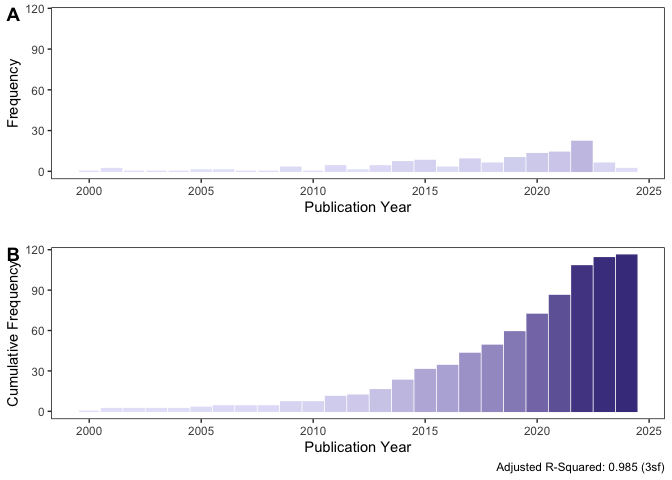
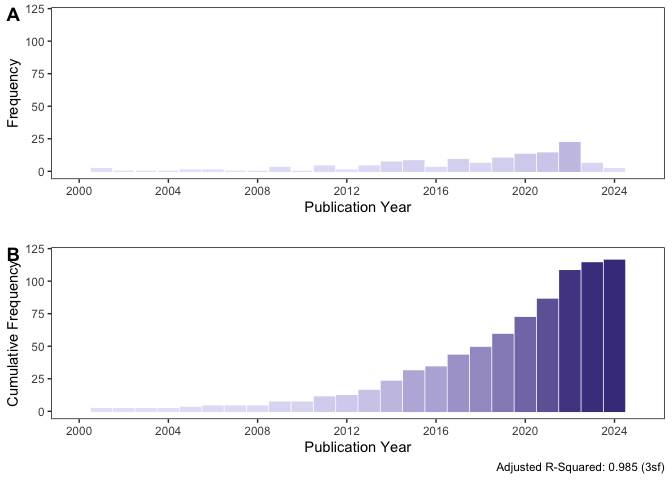
continued making progress on spatial frequency visualizations for subnational plots

diff --git a/scripts/cleaning-script.md b/scripts/cleaning-script.md
@@ -215,7 +215,8 @@ temporal_frequencies_plot <- temporal_frequencies %>%
   scale_color_gradient(name="Count",low="lavender",high="slateblue4",limits=c(1,116),na.value="lavender",breaks=c(1,29,58,87,116)) +
   xlab("Publication Year") + 
   ylab("Frequency") + 
-  ylim(0,115) +
+  scale_y_continuous(limits=c(0,120)) +
+  scale_x_continuous(breaks=c(2000,2004,2008,2012,2016,2020,2024),limits=c(2000,2025)) +
   labs(caption="   ") + 
   theme(legend.position="none",legend.justification="center",legend.box.spacing=unit(0,"pt"),legend.key.size=unit(10,"pt"),panel.grid=element_blank(),panel.background=element_rect(fill="white"),panel.border=element_rect(fill=NA),legend.title=element_text(size=10),legend.text=element_text(size=10),plot.title=element_text(size=10))
 temporal_cumulative_frequencies_plot <- temporal_frequencies %>%
@@ -225,14 +226,26 @@ temporal_cumulative_frequencies_plot <- temporal_frequencies %>%
   geom_col() + 
   xlab("Publication Year") + 
   ylab("Cumulative Frequency") + 
+  scale_y_continuous(limits=c(0,120)) +
+  scale_x_continuous(breaks=c(2000,2004,2008,2012,2016,2020,2024),limits=c(2000,2025)) +
   labs(caption="Adjusted R-Squared: 0.985 (3sf)") + 
   theme(legend.title.position="none",legend.position="none",legend.justification="center",legend.box.spacing=unit(0,"pt"),legend.key.width=unit(50,"pt"),legend.key.height=unit(7.5,"pt"),panel.grid=element_blank(),panel.background=element_rect(fill="white"),panel.border=element_rect(fill=NA),legend.title=element_text(size=10),legend.text=element_text(size=10),plot.title=element_text(size=10))
 ```
 
 ``` r
-ggarrange(temporal_frequencies_plot,temporal_cumulative_frequencies_plot,
+temporal_plots <- ggarrange(temporal_frequencies_plot,temporal_cumulative_frequencies_plot,
           nrow=2,
           labels=c("A","B"))
+```
+
+    ## Warning: Removed 1 row containing missing values or values outside the scale range
+    ## (`geom_col()`).
+    ## Removed 1 row containing missing values or values outside the scale range
+    ## (`geom_col()`).
+
+``` r
+ggsave(filename="publication-rate.png",plot=temporal_plots,path="/Users/kenjinchang/github/stakeholder-analysis/figures",width=30,height=20,units="cm",dpi=150,limitsize=TRUE)
+temporal_plots
 ```
 
 ![](cleaning-script_files/figure-gfm/unnamed-chunk-6-1.png)<!-- -->
@@ -300,7 +313,7 @@ spatial_frequencies <- extraction_data %>%
   mutate(across(country,str_replace,"USA","United States")) %>%
   mutate(across(country,str_replace,"UK","United Kingdom")) %>%
   group_by(country) %>%
-  summarise(count=sum(university_count)) 
+  summarise(frequency=sum(university_count)) 
 ```
 
     ## Warning: There was 1 warning in `mutate()`.
@@ -317,45 +330,49 @@ spatial_frequencies <- extraction_data %>%
 
 ``` r
 spatial_frequencies %>%
-  arrange(desc(count))
+  arrange(desc(frequency))
 ```
 
     ## # A tibble: 17 × 2
-    ##    country          count
-    ##    <chr>            <int>
-    ##  1 "United States"     74
-    ##  2 "United Kingdom"    16
-    ##  3 "Canada"            13
-    ##  4 "Portugal"           7
-    ##  5 "Italy"              6
-    ##  6 "Germany"            4
-    ##  7 "China"              3
-    ##  8 "Sweden"             3
-    ##  9 "Australia"          2
-    ## 10 "Belgium "           2
-    ## 11 "Brazil"             2
-    ## 12 "Netherlands"        2
-    ## 13 "France"             1
-    ## 14 "India"              1
-    ## 15 "Norway"             1
-    ## 16 "Switzerland"        1
-    ## 17 "Thailand"           1
+    ##    country          frequency
+    ##    <chr>                <int>
+    ##  1 "United States"         74
+    ##  2 "United Kingdom"        16
+    ##  3 "Canada"                13
+    ##  4 "Portugal"               7
+    ##  5 "Italy"                  6
+    ##  6 "Germany"                4
+    ##  7 "China"                  3
+    ##  8 "Sweden"                 3
+    ##  9 "Australia"              2
+    ## 10 "Belgium "               2
+    ## 11 "Brazil"                 2
+    ## 12 "Netherlands"            2
+    ## 13 "France"                 1
+    ## 14 "India"                  1
+    ## 15 "Norway"                 1
+    ## 16 "Switzerland"            1
+    ## 17 "Thailand"               1
 
 ``` r
 spatial_frequencies_joined <- left_join(global_shapefile,spatial_frequencies,by="country")
 national_frequencies <- spatial_frequencies_joined %>%
-  ggplot(aes(x=long,y=lat,fill=count,group=group)) + 
-  geom_polygon(color="black",linewidth=0.125,alpha=0.75) +
-  scale_fill_gradient(low="lavender",high="slateblue4",na.value="white",name="Intervention-Receiving Institutions",guide=guide_colourbar(reverse=FALSE,alpha=0.75,title.position="top",title.hjust=0.5,limits=c(1,74))) +
-  scale_y_continuous(limits=c(-60,90)) + 
+  ggplot(aes(x=long,y=lat,fill=frequency,group=group)) + 
+  geom_polygon(color="black",linewidth=0.125,alpha=0.60) +
+  scale_fill_gradient(low="lavender",high="slateblue4",na.value="white",name="Intervention-Receiving Institutions",guide=guide_colourbar(reverse=FALSE,title.position="top",title.hjust=0.5,limits=c(1,74))) +
   xlab("") + 
   ylab("") +
+  scale_y_continuous(limits=c(-55,85)) +
   labs(caption="") +
-  theme(legend.key.width=unit(3,"lines"),legend.position="bottom",legend.justification="center",legend.box.spacing=unit(-15,"pt"),legend.key.size=unit(10,"pt"),panel.grid=element_blank(),panel.background=element_rect(fill="aliceblue"),panel.border=element_rect(fill=NA),axis.text=element_blank(),axis.ticks=element_blank(),legend.title=element_text(size=10),legend.text=element_text(size=10),plot.title=element_text(size=10))
+  theme(legend.key.width=unit(3,"lines"),legend.position="none",legend.justification="center",legend.box.spacing=unit(-15,"pt"),legend.key.size=unit(10,"pt"),panel.grid=element_blank(),panel.background=element_rect(fill="white"),panel.border=element_rect(fill=NA),axis.text=element_blank(),axis.ticks=element_blank(),legend.title=element_text(size=10),legend.text=element_text(size=10),plot.title=element_text(size=10))
 national_frequencies
 ```
 
 ![](cleaning-script_files/figure-gfm/unnamed-chunk-10-1.png)<!-- -->
+
+scale_fill_gradient(name=“Count”,low=“lavender”,high=“slateblue4”,limits=c(1,116),na.value=“lavender”,breaks=c(1,29,58,87,116)) +
+scale_color_gradient(name=“Count”,low=“lavender”,high=“slateblue4”,limits=c(1,116),na.value=“lavender”,breaks=c(1,29,58,87,116))
++
 
 ``` r
 usa_shapefile <- map_data("state") %>%
@@ -363,28 +380,120 @@ usa_shapefile <- map_data("state") %>%
 ```
 
 ``` r
-extraction_data %>%
+state_frequencies <- extraction_data %>%
   select(us_state_var,university_count) %>%
   rename(region=us_state_var) %>%
+  separate_longer_delim(c(region,university_count),delim=";") %>%
+  mutate(university_count=as.numeric(university_count)) %>%
   group_by(region) %>%
-  summarise(count=sum(university_count)) %>%
-  separate_longer_delim(c(region,count),delim=";") 
+  summarise(frequency=sum(university_count)) %>%
+  arrange(desc(frequency)) %>%
+  mutate(region=tolower(region)) %>%
+  rename(state=region) 
+state_frequencies
 ```
 
-    ## # A tibble: 43 × 2
-    ##    region          count
-    ##    <chr>           <chr>
-    ##  1 "Alabama"       8    
-    ##  2 " Maine"        8    
-    ##  3 " Michigan"     8    
-    ##  4 " New York"     8    
-    ##  5 " Pennsylvania" 8    
-    ##  6 " Rhode Island" 8    
-    ##  7 " South Dakota" 8    
-    ##  8 " Wisconsin"    8    
-    ##  9 "Arizona"       1    
-    ## 10 "Arkansas"      1    
-    ## # ℹ 33 more rows
+    ## # A tibble: 39 × 2
+    ##    state            frequency
+    ##    <chr>                <dbl>
+    ##  1  <NA>                   65
+    ##  2 "california"            23
+    ##  3 " maine"                 8
+    ##  4 " massachusetts"         8
+    ##  5 " michigan"              8
+    ##  6 " new york"              8
+    ##  7 " pennsylvania"          8
+    ##  8 " rhode island"          8
+    ##  9 " south dakota"          8
+    ## 10 " wisconsin"             8
+    ## # ℹ 29 more rows
+
+Something is wrong with these
+
+``` r
+state_frequencies_joined <- left_join(usa_shapefile,state_frequencies,by="state")
+```
+
+``` r
+usa_frequencies <- state_frequencies_joined %>%
+  ggplot(aes(x=long,y=lat,fill=frequency,group=group)) + 
+  geom_polygon(color="black",linewidth=0.125,alpha=0.75) +
+  scale_fill_gradient(low="lavender",high="slateblue4",na.value="white",name="Intervention-Receiving Institutions",guide=guide_colourbar(reverse=FALSE,alpha=0.75,title.position="top",title.hjust=0.5,limits=c(1,74))) +
+  xlab("") + 
+  ylab("") +
+  labs(caption="") +
+  coord_map("albers",lat0=45.5,lat1=29.5) +
+  theme(legend.key.width=unit(3,"lines"),legend.position="none",legend.justification="center",legend.box.spacing=unit(-15,"pt"),legend.key.size=unit(10,"pt"),panel.grid=element_blank(),panel.background=element_rect(fill="white"),panel.border=element_rect(fill=NA),axis.text=element_blank(),axis.ticks=element_blank(),legend.title=element_text(size=10),legend.text=element_text(size=10),plot.title=element_text(size=10))
+usa_frequencies
+```
+
+![](cleaning-script_files/figure-gfm/unnamed-chunk-14-1.png)<!-- -->
+
+``` r
+uk_shapefile <- map_data("world",region="UK")
+```
+
+``` r
+subnational_frequencies <- extraction_data %>%
+  select(uk_country,university_count) %>%
+  rename(subregion=uk_country) %>%
+  separate_longer_delim(c(subregion,university_count),delim=";") %>%
+  mutate(university_count=as.numeric(university_count)) %>%
+  group_by(subregion) %>%
+  summarise(frequency=sum(university_count)) %>%
+  arrange(desc(frequency)) %>%
+  mutate(across('subregion',str_replace,'England', 'Great Britain'))
+subnational_frequencies
+```
+
+    ## # A tibble: 6 × 2
+    ##   subregion       frequency
+    ##   <chr>               <dbl>
+    ## 1  <NA>                 121
+    ## 2 "Great Britain"        14
+    ## 3 ""                      1
+    ## 4 "Scotland"              1
+    ## 5 "Wales"                 1
+    ## 6 "\\"                    1
+
+``` r
+subnational_frequencies_joined <- left_join(uk_shapefile,subnational_frequencies,by="subregion")
+```
+
+``` r
+uk_frequencies <- subnational_frequencies_joined %>%
+  ggplot(aes(x=long,y=lat,fill=frequency,group=group)) + 
+  geom_polygon(color="black",linewidth=0.125,alpha=0.75) +
+  scale_fill_gradient(low="lavender",high="slateblue4",na.value="white",name="Intervention-Receiving Institutions",guide=guide_colourbar(reverse=FALSE,alpha=0.75,title.position="top",title.hjust=0.5,limits=c(1,74))) +
+  xlab("") + 
+  ylab("") +
+  labs(caption="") +
+  coord_map() + 
+  theme(legend.key.width=unit(3,"lines"),legend.position="none",legend.justification="center",legend.box.spacing=unit(-15,"pt"),legend.key.size=unit(10,"pt"),panel.grid=element_blank(),panel.background=element_rect(fill="white"),panel.border=element_rect(fill=NA),axis.text=element_blank(),axis.ticks=element_blank(),legend.title=element_text(size=10),legend.text=element_text(size=10),plot.title=element_text(size=10))
+uk_frequencies
+```
+
+![](cleaning-script_files/figure-gfm/unnamed-chunk-18-1.png)<!-- -->
+
+``` r
+subnational_frequency_choros <- ggarrange(usa_frequencies,uk_frequencies,
+                                         ncol=2,
+                                         widths=c(2,1),
+                                         labels=c("B","C"))
+subnational_frequency_choros
+```
+
+![](cleaning-script_files/figure-gfm/unnamed-chunk-19-1.png)<!-- -->
+
+``` r
+national_frequency_choros <- ggarrange(national_frequencies,
+                                       labels="A")
+national_frequency_choros
+```
+
+![](cleaning-script_files/figure-gfm/unnamed-chunk-20-1.png)<!-- -->
+
+Something is wrong here too, need to split great britain into parts
 
 ### Primary Performance Indicators
 
